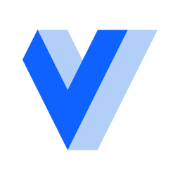
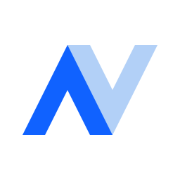
update

Changed region(s): [[0.1111, 0.1389, 0.8889, 0.8333]]

diff --git a/src/icons/logo.tsx b/src/icons/logo.tsx
@@ -10,16 +10,12 @@ const Logo = (props: SVGProps<SVGSVGElement>) => {
       {...props}
     >
       <polygon
-        points="455.6 286.39 342.79 512 114.99 56.4 340.6 56.4 455.6 286.39"
+        points="682.67 512 512 170.67 341.33 170.67 682.67 853.33 1024 170.67 853.33 170.67 682.67 512"
         fill="#b2d0f7"
       />
       <polygon
-        points="798.39 56.4 342.79 967.6 0 282.01 112.8 56.4 114.99 56.4 342.79 512 570.59 56.4 798.39 56.4"
+        points="341.33 512 512 853.33 682.67 853.33 341.33 170.67 0 853.33 170.67 853.33 341.33 512"
         fill="#1062ff"
-      />
-      <polygon
-        points="1024 56.4 568.4 967.6 342.79 967.6 798.39 56.4 1024 56.4"
-        fill="#b2d0f7"
       />
     </svg>
   );

diff --git a/src/app/[locale]/(auth)/components/cover.tsx b/src/app/[locale]/(auth)/components/cover.tsx
@@ -14,11 +14,11 @@ const Cover: React.FC = () => {
       <div className="relative flex flex-col z-10 p-10 h-full">
         <div className="flex-none">
           <Link
-            className="inline-flex items-center gap-2 text-xl font-bold text-black"
+            className="inline-flex items-center gap-2 text-xl font-bold text-black leading-none"
             href="/"
           >
             <span className="text-(--ant-color-primary)">
-              <Logo width={24} height={24} />
+              <Logo width={32} height={32} />
             </span>
             <span>{process.env.NEXT_PUBLIC_APP_NAME}</span>
           </Link>

diff --git a/src/app/[locale]/(app)/components/sidebar.tsx b/src/app/[locale]/(app)/components/sidebar.tsx
@@ -44,8 +44,8 @@ const Inner = () => {
         <div className="h-full flex flex-col">
           <div className="flex-none w-full h-16 flex items-center px-6">
             <Link className="flex gap-3 items-center" href="/dashboard">
-              <Logo width={24} height={24} />
-              <h1 className="text-xl font-bold text-white">
+              <Logo width={32} height={32} />
+              <h1 className="text-xl font-bold text-white leading-none">
                 {process.env.NEXT_PUBLIC_APP_NAME}
               </h1>
             </Link>
